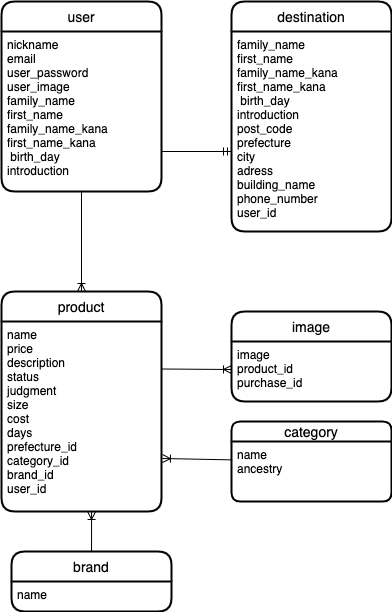
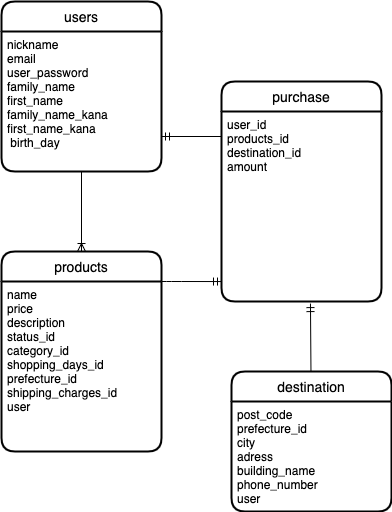
DB設計の修正

Changed region(s): [[0.4286, 0.0, 1.0, 1.0], [0.0, 0.4688, 0.4592, 1.0], [0.0, 0.0, 0.4286, 0.3438]]

diff --git a/README.md b/README.md
@@ -26,98 +26,73 @@ Things you may want to cover:
 
 ## users テーブル
 
-| Column             | Type    | Options        |
-| ------------------ | ------- | -------------- |
-| nickname           | string  | null: false    |
-| email              | string  | null: false    |
-| encrypted_password | string  | null: false    |
-| user_image         | string  |                |
-| introduction       | text    |                |
-| family_name        | string  | null: false    |
-| first_name         | string  | null: false    |
-| family_name_kana   | string  | null: false    |
-| first_name_kana    | string  | null: false    |
-| birth_day          | data    | null: false    |
+| Column             | Type    | Options                   |
+| ------------------ | ------- | ------------------------- |
+| nickname           | string  | null: false               |
+| email              | string  | null: false, unique: true |
+| user_password      | string  | null: false               |
+| family_name        | string  | null: false               |
+| first_name         | string  | null: false               |
+| family_name_kana   | string  | null: false               |
+| first_name_kana    | string  | null: false               |
+| birth_day          | date    | null: false               |
 
 ### Association
-- has_many :products dependent :destroy
-- belongs_to :products dependent :destroy
-- belongs_to :card dependent :destroy
+- has_many :products
+- belongs_to :purchase 
+
+
 
 
 ## destination テーブル
 
 | Column             | Type       | Options                        |
 | ------------------ | ---------- | -------------------------------|
-| user_id            | integer    | null: false, foreign_key: true |
-| family_name        | string     | null: false                    |
-| first_name         | string     | null: false                    |
-| family_name_kana   | string     | null: false                    |
-| first_name_kana    | string     | null: false                    |
+| user               | references | null: false, foreign_key: true |
 | post_code          | string     | null: false                    |
-| prefecture         | string     | null: false                    | 
+| prefecture_id      | integer    | null: false                    | 
 | city               | string     | null: false                    |
 | adress             | string     | null: false                    |
 | building_name      | string     |                                |
-| phone_number       | string     |                                |
+| phone_number       | string     | null: false                    |
+
+### Association
+- belongs_to :purchase 
+
+
+## products テーブル
+
+| Column              | Type       | Options                        |
+| ------------------- | ---------- | -------------------------------|
+| name                | string     | null: false                    |
+| description         | text       | null: false                    |
+| category_id         | string     | null: false                    |
+| status_id           | string     | null: false                    |
+| shipping_charges_id | integer    | null: false                    |
+| prefecture_id       | integer    | null: false                    |
+| shopping_days_id    | integer    | null: false                    | 
+| price               | integer    | null: false                    |
+| user                | references | null: false, foreign_key: true |
 
 ### Association
 - belongs_to :user
-
-
-## category テーブル
-
-| Column        | Type       | Options           |
-| ------------- | ---------- | ----------------- |
-| name          | string     | null: false       |
-| ancestry      | string     |                   |
-
-### Association
-- has_many :products
-
-## product テーブル
-
-| Column          | Type       | Options                        |
-| --------------- | ---------- | -------------------------------|
-| name            | integer    | null: false                    |
-| price           | string     | null: false                    |
-| description     | string     | null: false                    |
-| status          | string     | null: false                    |
-| size            | string     | null: false                    |
-| shopping_cost   | string     | null: false                    |
-| shopping_days   | string     | null: false                    | 
-| prefecture_id   | string     | null: false                    |
-| jidgment        | string     |                                |
-| category_id     | string     |null: false, foreign_key: true  |
-| brand_id        | integer    |null: false, foreign_key: true  |
-| shopping_id     | integer    |null: false, foreign_key: true  |
-| user_id         | integer    |null: false, foreign_key: true  |
-
-### Association
-- belongs_to :user dependent :destroy
-- belongs_to :category dependent :destroy
-- belongs_to :brand dependent :destroy
-- has_many :images dependent :destroy
+- belongs_to :purchase 
 
 - belongs_to_active_hush :prefecture
 
 
-## image テーブル
+# Purchase テーブル
 
-| Column        | Type       | Options                       |
-| ------------- | ---------- | ----------------------------- |
-| image         | string     | null: false                   |
-| product_id    | integer    |null: false, foreign_key: true |
-
-### Association
-- belongs_to :product
-
-## brand テーブル
-
-| Column        | Type       | Options          |
-| ------------- | ---------- | ---------------- |
-| name          | string     | index: ture      |
+| Column            | Type       | Options                        |
+| ----------------- | ---------- | -------------------------------|
+| user_id           | references | null: false, foreign_key: true |
+| products_id       | integer    | null: false                    |
+| destination_id    | integer    | null: false                    |
+| amount            | integer    | null: false                    |
 
 ### Association
-- has_many :products
+- belongs_to :destination
+- belongs_to :user 
+- belongs_to :product 
+
 
